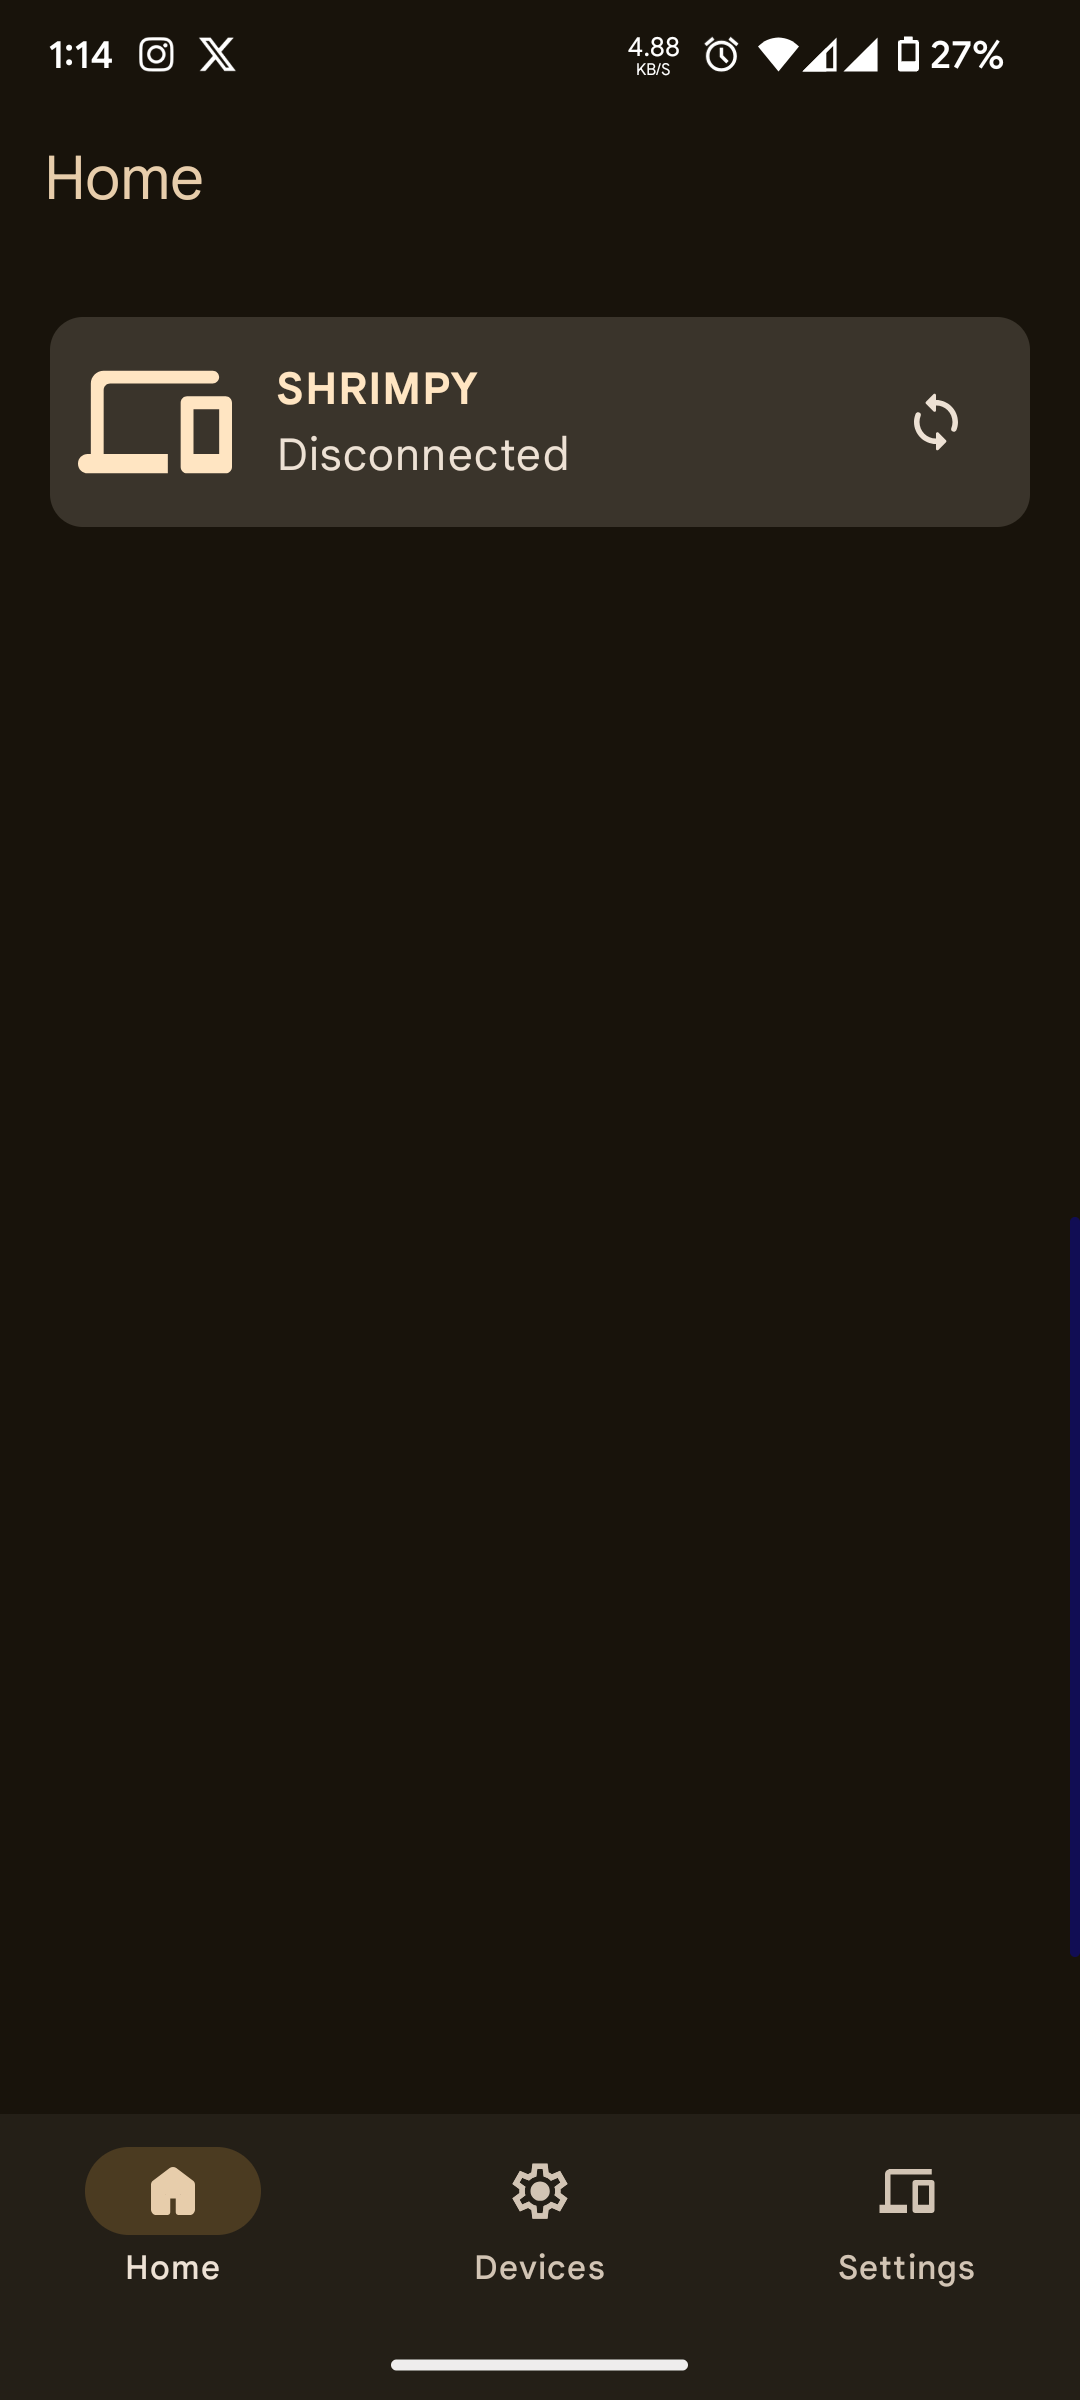
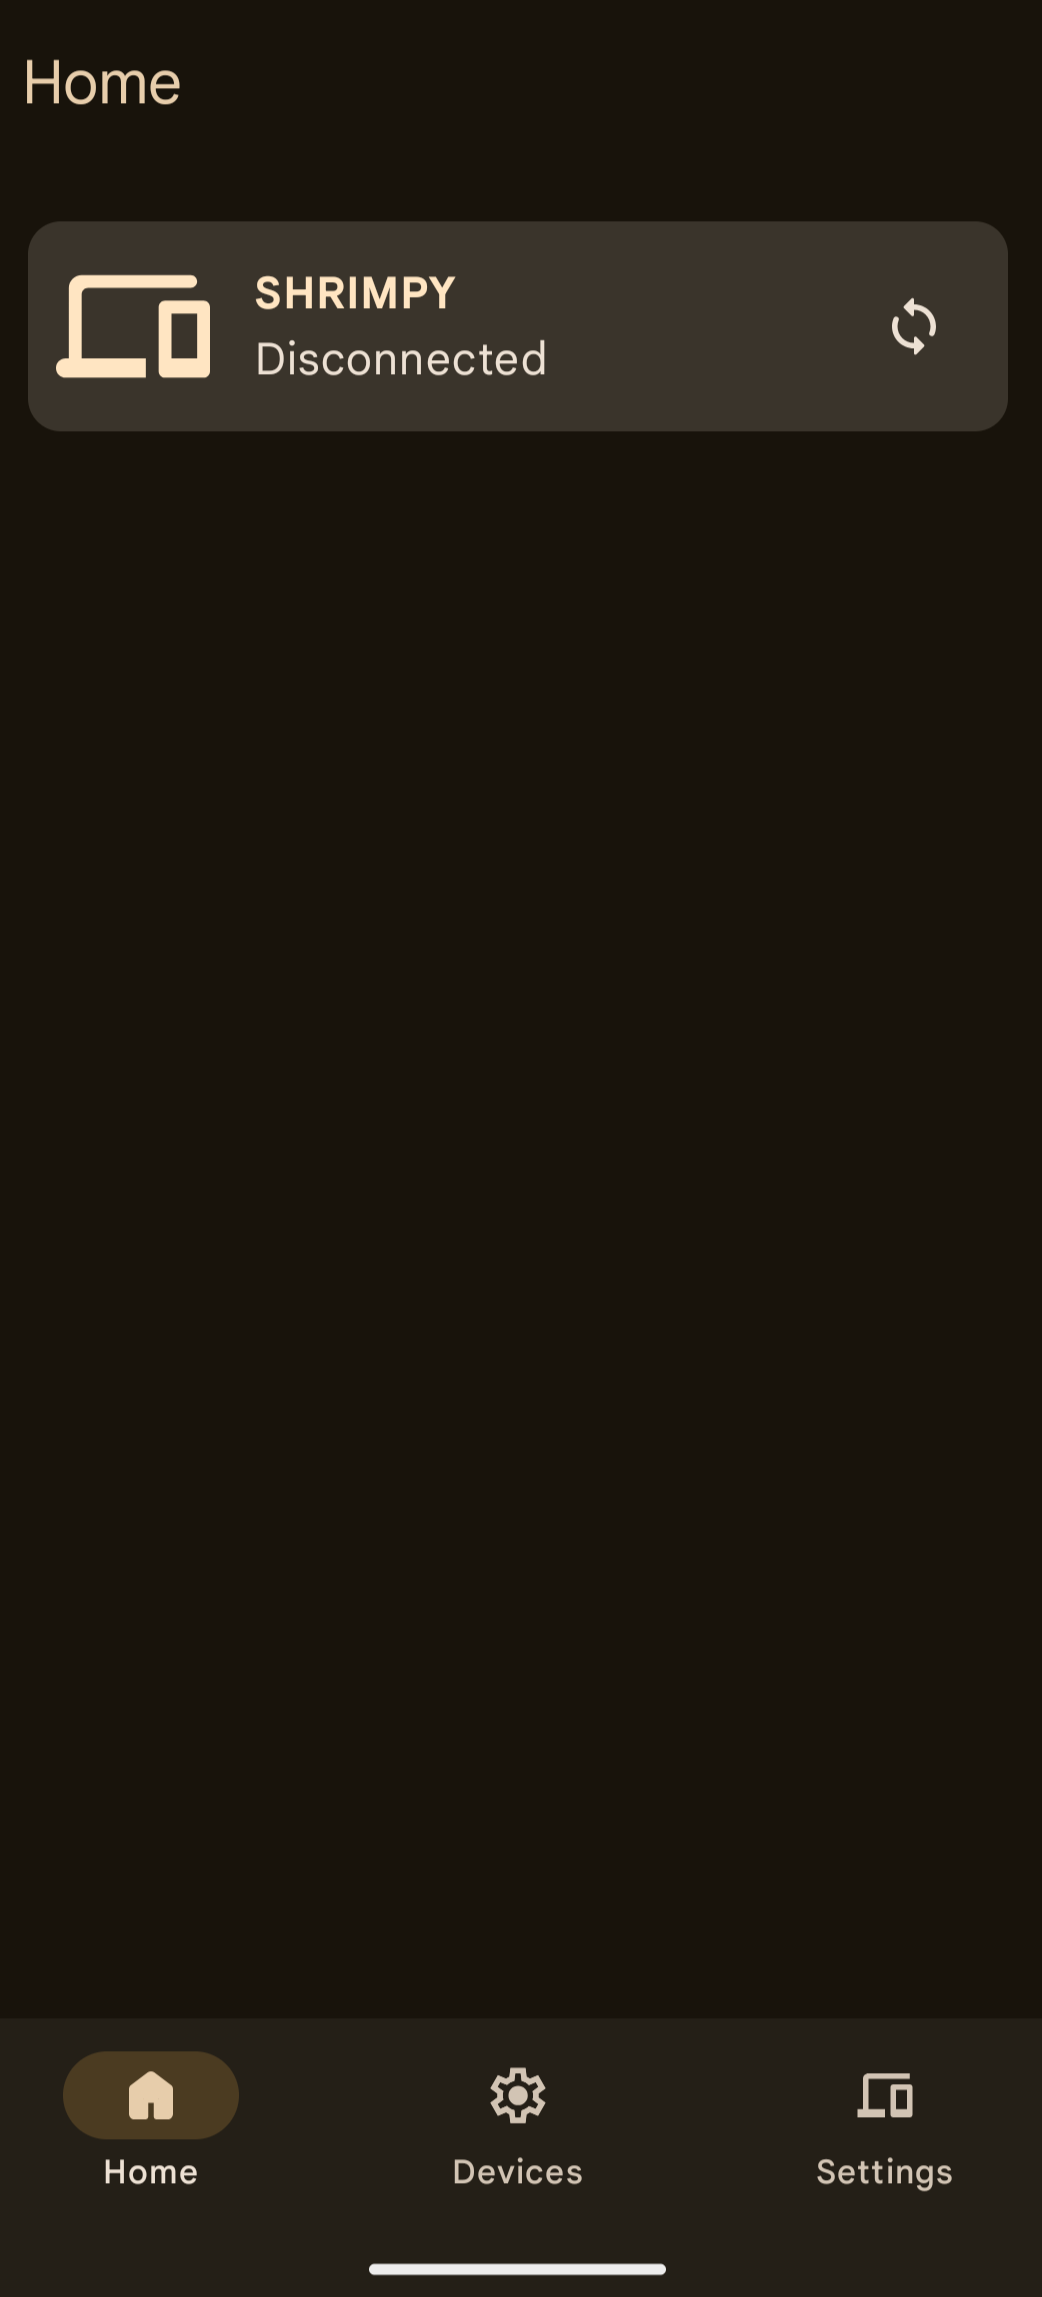
Update Readme

diff --git a/README.MD b/README.MD
@@ -1,7 +1,7 @@
 # Sekia
 
 **Sekia** is an opinionated, custom-built app that bridges the gap between your Windows PC and Android phone, offering seamless clipboard and notification sharing. Born out of the frustration with existing solutions, Sekia provides a straightforward, no-nonsense alternative for those who need more from their Phone Link experience.
-![screenshots of app](./.github/readme-images/HomeScreen.png)
+<img src="./.github/readme-images/homescreen.png" alt="screenshots of app" width="300" />
 ## Features
 
 - **Clipboard Sharing**: Easily share clipboard content between your Android device and Windows PC.
